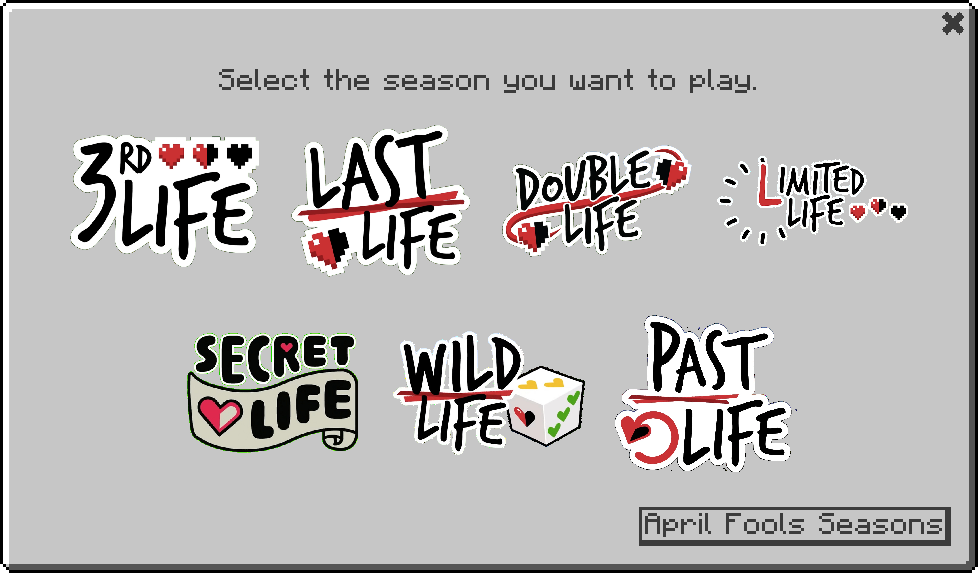
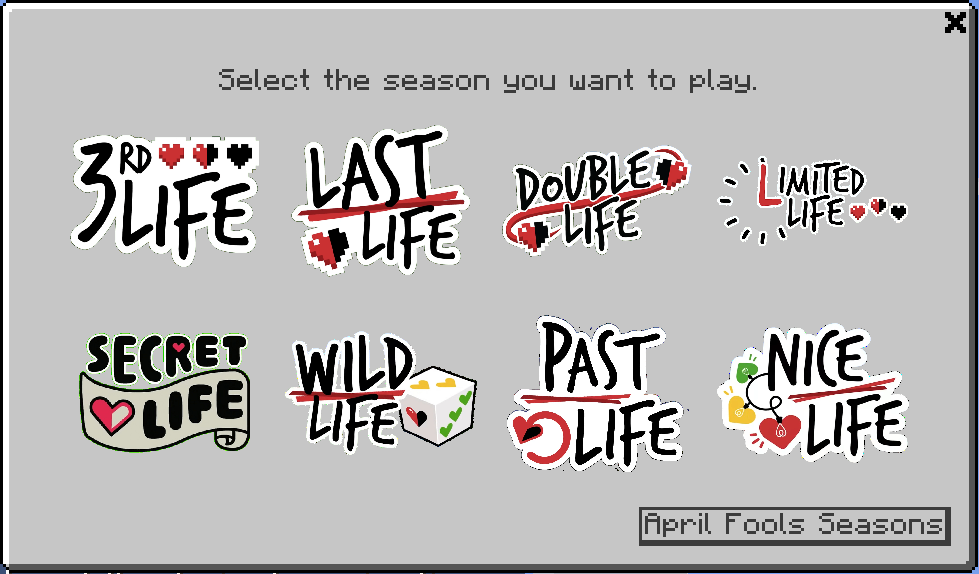
Nice Life documentation init

diff --git a/docs/seasons/overview.md b/docs/seasons/overview.md
@@ -4,18 +4,19 @@ The Life Series Mod includes complete recreations of all official seasons, each 
 
 ## Seasons
 
-| Season                                | Status    | Key Features                            |
-|---------------------------------------|-----------|-----------------------------------------|
-| [Third Life](/seasons/third-life)     | Completed | No special features                     |
-| [Last Life](/seasons/last-life)       | Completed | 2-6 random lives, The Boogeyman         |
-| [Double Life](/seasons/double-life)   | Completed | Soulmates                               |
-| [Limited Life](/seasons/limited-life) | Completed | Time-based lives, The Boogeyman         |
-| [Secret Life](/seasons/secret-life)   | Completed | Task system, 30 non-regenerating hearts |
-| [Wild Life](/seasons/wild-life)       | Completed | 8 different Wildcards                   |
-| [Past Life](/seasons/past-life)       | Completed | Secret society                          |
-|                                       |           |                                         |
-| [Real Life](/seasons/past-life)       | Completed | April fools - Played in VR              |
-| [Simple Life](/seasons/past-life)     | Completed | April fools - Superflat world           | 
+| Season                                | Status      | Key Features                            |
+|---------------------------------------|-------------|-----------------------------------------|
+| [Third Life](/seasons/third-life)     | Completed   | No special features                     |
+| [Last Life](/seasons/last-life)       | Completed   | 2-6 random lives, The Boogeyman         |
+| [Double Life](/seasons/double-life)   | Completed   | Soulmates                               |
+| [Limited Life](/seasons/limited-life) | Completed   | Time-based lives, The Boogeyman         |
+| [Secret Life](/seasons/secret-life)   | Completed   | Task system, 30 non-regenerating hearts |
+| [Wild Life](/seasons/wild-life)       | Completed   | 8 different Wildcards                   |
+| [Past Life](/seasons/past-life)       | Completed   | Secret society                          |
+| [Nice Life](/seasons/nice-life)       | In Progress | Santa bot                               |
+|                                       |             |                                         |
+| [Real Life](/seasons/past-life)       | Completed   | April fools - Played in VR              |
+| [Simple Life](/seasons/past-life)     | Completed   | April fools - Superflat world           | 
 
 ## Season Comparisons
 
@@ -27,6 +28,7 @@ The Life Series Mod includes complete recreations of all official seasons, each 
 - **Secret Life**: 3 lives
 - **Wild Life**: 6 lives
 - **Past Life**: 6 lives
+- **Nice Life**: 3 lives
 
 - **Real Life**: 3 lives
 - **Simple Life**: 3 lives
@@ -63,6 +65,11 @@ If they fail, they are punished. If they succeed, they are rewarded.
 Every session has its own twist, a Wildcard, which affects the gameplay in a certain way.
 :::
 
+::: details Nice Life
+Nice Life is still in progress. Things may change.<br>
+Once the clock strikes midnight, it stops moving. Everyone must sleep to pass the night, and can answer a question from the Santa Bot to get rewards. 
+:::
+
 ## April Fools Seasons
 
 The mod also includes special April Fools seasons:
@@ -87,6 +94,7 @@ Learn more about each season:
 - [Secret Life](/seasons/secret-life)
 - [Wild Life](/seasons/wild-life)
 - [Past Life](/seasons/past-life)
+- [Nice Life](/seasons/nice-life)
 
 - April Fools Seasons:
   - [Real Life](/seasons/real-life)

diff --git a/docs/seasons/nice-life.md b/docs/seasons/nice-life.md
@@ -1,0 +1,48 @@
+# Nice Life
+
+:::warning
+Nice Life is still in progress. Things may change.
+:::
+
+## Overview
+
+Nice Life is the eighth season of the Life Series.
+
+
+Once the clock strikes midnight, it stops moving.
+Everyone must sleep to pass the night, and can answer a question from the Santa Bot to get rewards.
+If you fail or if you get voted for, you will be put on the Naughty List.
+
+## Naughty List
+
+Players on the naughty list have a purple name. They can be removed from the list by either dying, or by surviving until the next night (or session end).
+
+They will glow periodically and lose the protection of a green or yellow name. Anyone can hunt down people on the naughty list. Purple names can still **defend** themselves
+
+
+
+## Lives
+All players are given 3 lives at the beginning of the first session.
+
+:::info Life Colors
+- Green = 3 lives
+- Yellow = 2 lives
+- Red = 1 life (hostile)
+:::
+
+Green and Yellow players are not allowed to *initiate combat*, unless in self defence from a Red that *initiated combat* against you.
+
+Once you become a Red, you become hostile = you can freely *initiate combat* on anyone.
+
+:::info Initiate Combat
+Initiate Combat = causing any unlawful act, such as: attacking, griefing, stealing, trapping,...<br>
+Combat stops once both parties flee or once a peace agreement is reached.
+:::
+
+---
+
+## Related Pages
+
+- [Selecting a Season](/guide/selecting-season) - A guide to selecting a season
+- [Config Overview](/config/overview) - Configure the mod settings
+- [Feature Overview](/features/overview) - More info about all the features of the mod

diff --git a/docs/commands/detailed/lifeseries.md b/docs/commands/detailed/lifeseries.md
@@ -49,17 +49,18 @@ Sets the current Life Series season using a command.
 
 **Available Series:**
 
-| Season                    | `<series>`   |
-|---------------------------|--------------|
-| Third Life                | `thirdlife`  |
-| Last Life                 | `lastlife`   |
-| Double Life               | `doublelife` |
+| Season                    | `<series>`    |
+|---------------------------|---------------|
+| Third Life                | `thirdlife`   |
+| Last Life                 | `lastlife`    |
+| Double Life               | `doublelife`  |
 | Limited Life              | `limitedlife` |
-| Secret Life               | `secretlife` |
-| Wild Life                 | `wildlife`   |
-| Past Life                 | `pastlife`   |
-| Real Life  (April Fools)  | `reallife`   |
-| Simple Life (April Fools) | `simplelife` |
+| Secret Life               | `secretlife`  |
+| Wild Life                 | `wildlife`    |
+| Past Life                 | `pastlife`    |
+| Nice Life                 | `nicelife`    |
+| Real Life  (April Fools)  | `reallife`    |
+| Simple Life (April Fools) | `simplelife`  |
 
 **Examples:**
 ```

diff --git a/docs/guide/introduction.md b/docs/guide/introduction.md
@@ -8,7 +8,7 @@ It adds everything from the original series, along with an incredible amount of 
 ## Feature Complete
 This mod faithfully recreates all the seasons of the Life Series - everything works exactly as in the originals.
 
-That is: `Third Life`, `Last Life`, `Double Life`, `Limited Life`, `Secret Life`, `Wild Life`, `Past Life`, and the April Fools seasons: `Real Life` and `Simple Life`.
+That is: `Third Life`, `Last Life`, `Double Life`, `Limited Life`, `Secret Life`, `Wild Life`, `Past Life`, `Nice Life`, and the April Fools seasons: `Real Life` and `Simple Life`.
 
 All in a single mod. No more shady, unmaintained, buggy datapacks.
 

diff --git a/docs/guide/selecting-season.md b/docs/guide/selecting-season.md
@@ -23,6 +23,7 @@ If you do not have the mod client-side, you have to use the `/lifeseries setSeri
 | Secret Life               | `secretlife`  |
 | Wild Life                 | `wildlife`    |
 | Past Life                 | `pastlife`    |
+| Nice Life                 | `nicelife`    |
 | Real Life  (April Fools)  | `reallife`    |
 | Simple Life (April Fools) | `simplelife`  |
 
